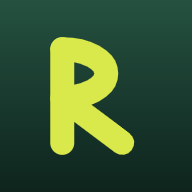
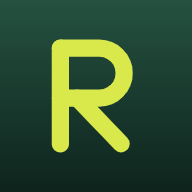
Redraw the R from Sam's reference: a stadium bowl, not an ellipse
Sam sent a mockup and said "yeah like this". He was right and the first
draft was wrong in two specific ways that only became visible with his
version rendered beside mine at matched size.

THE BOWL WAS AN ELLIPSE. It should be a stadium — flat top, semicircular
right end, flat bottom. An ellipse closes onto the stem at a shallow
angle and leaves a lens-shaped counter; a stadium leaves an open rounded
rectangle. That one change is most of the difference between a letter
that looks drawn and a letter that looks squeezed.

THE LEG GREW OUT OF THE STEM. It should spring from under the bowl.
Starting it at the stem piles three strokes onto one point and reads as
a blob at the junction; starting it 90 units along the bowl's bottom run
gives the counter a clean floor and the leg somewhere to come from.

And the stroke is 92, not the 128 originally specified. 128 is 15% of a
mark this size and closes the counter; the reference is nearer 9%.

THE LIGHTER STROKE PAID FOR ITSELF TWICE. The old icon at 16px was a
lime blob — counter 1.7 physical pixels, closed — which is why a
separate favicon master existed with its own geometry. It no longer
needs one: the app icon holds its counter at 16px on its own, and
favicon.svg is now the same three paths scaled 1.30, not a redraw. The
letter lives in exactly one place across all three masters.

Both scaled variants scale about the mark's own optical centre (492,
512) rather than the tile's, so the 2% leftward shift survives instead
[…]

Changed region(s): [[0.2812, 0.1875, 0.7188, 0.8125], [0.2812, 0.5312, 0.5938, 0.8125], [0.25, 0.2188, 0.2812, 0.7812]]

diff --git a/scripts/build-icons.md b/scripts/build-icons.md
@@ -8,7 +8,13 @@ re-export.
 |---|---|---|
 | `icon.svg` | every `icon-*.png`, `apple-touch-icon.png` | the mark |
 | `icon-maskable.svg` | `icon-maskable-*.png` | mark scaled to 0.8 for Android's crop |
-| `favicon.svg` | `favicon-16/32.png`, `favicon.ico` | optically sized for 16px — see its comment |
+| `favicon.svg` | `favicon-16/32.png`, `favicon.ico` | the same letter scaled up for 16px — see its comment |
+
+The letter itself lives in exactly one place: the three `<path>` elements are
+byte-identical across all three masters, and the two variants differ only by a
+`transform` on the group. **Edit the paths in `icon.svg` and paste them into
+the other two** — or the three will drift and nobody will notice until the
+favicon stops matching the home-screen icon.
 
 ## Why there is no one-command build
 
@@ -84,11 +90,19 @@ about SVG. The procedure below is what produced the current set.
 
 5. Delete `src/pages/api/_icons.ts`.
 
-6. **Look at the result at 16px, magnified.** This is not optional and it is
-   what `favicon.svg` exists because of: the app icon rendered at 16 is a lime
-   blob with its counter closed, and that is invisible in any view except a
-   magnified one. Draw a contact sheet onto a canvas with
-   `imageSmoothingEnabled = false`, scaled 10-14x, and save it the same way.
+6. **Look at the result at 16px, magnified.** Not optional, and the reason
+   the letterform is what it is. The first draft had an elliptical bowl and a
+   128 stroke; at 16px its counter was 1.7 physical pixels, closed completely,
+   and the R became a lime blob — invisible in every view except a magnified
+   one, and invisible in the 512px render that looked fine. Draw a contact
+   sheet onto a canvas with `imageSmoothingEnabled = false`, scaled 10-14x,
+   and save it the same way.
+
+   Compare against a reference the same way if there is one. Sam's mockup
+   sat beside the render at matched size, which is what made the difference
+   obvious: an ellipse where a stadium was wanted, and a leg growing out of
+   the stem instead of out of the bowl. Neither was visible while looking at
+   the icon on its own.
 
 ## Rules that are easy to break
 
